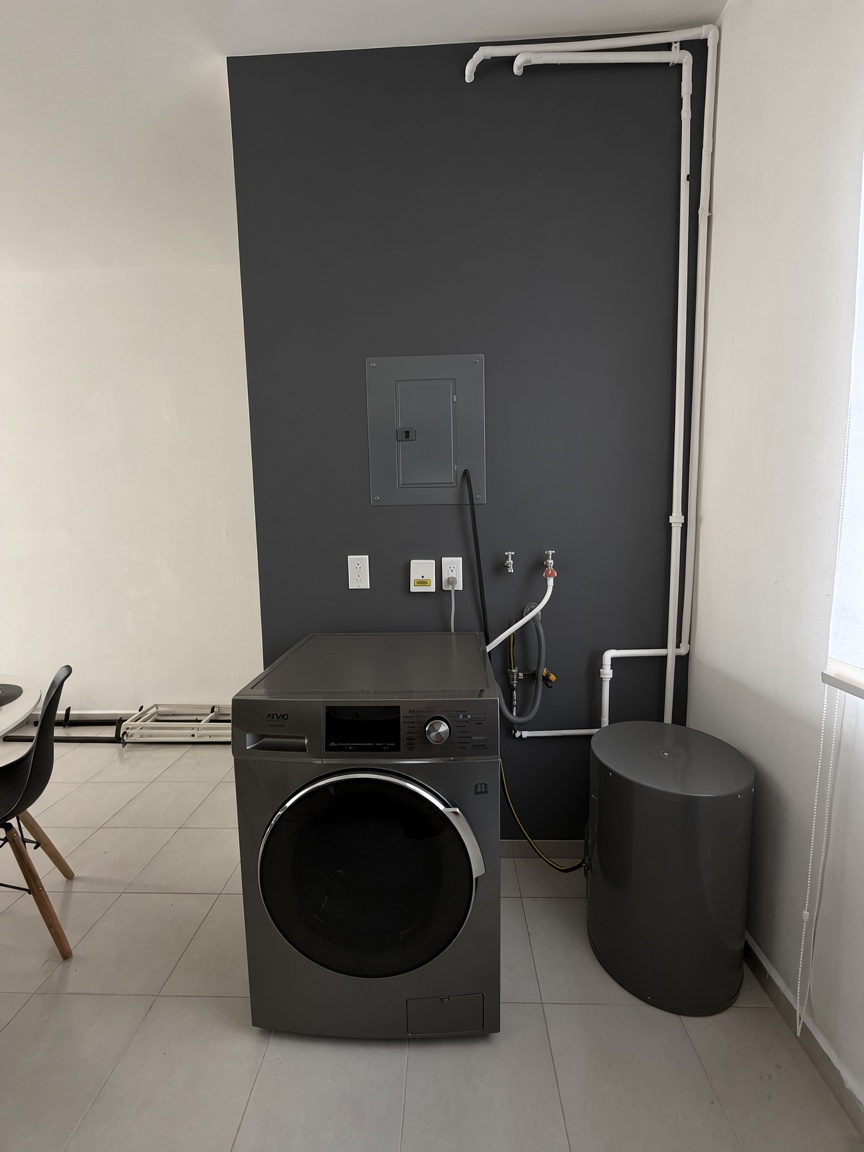
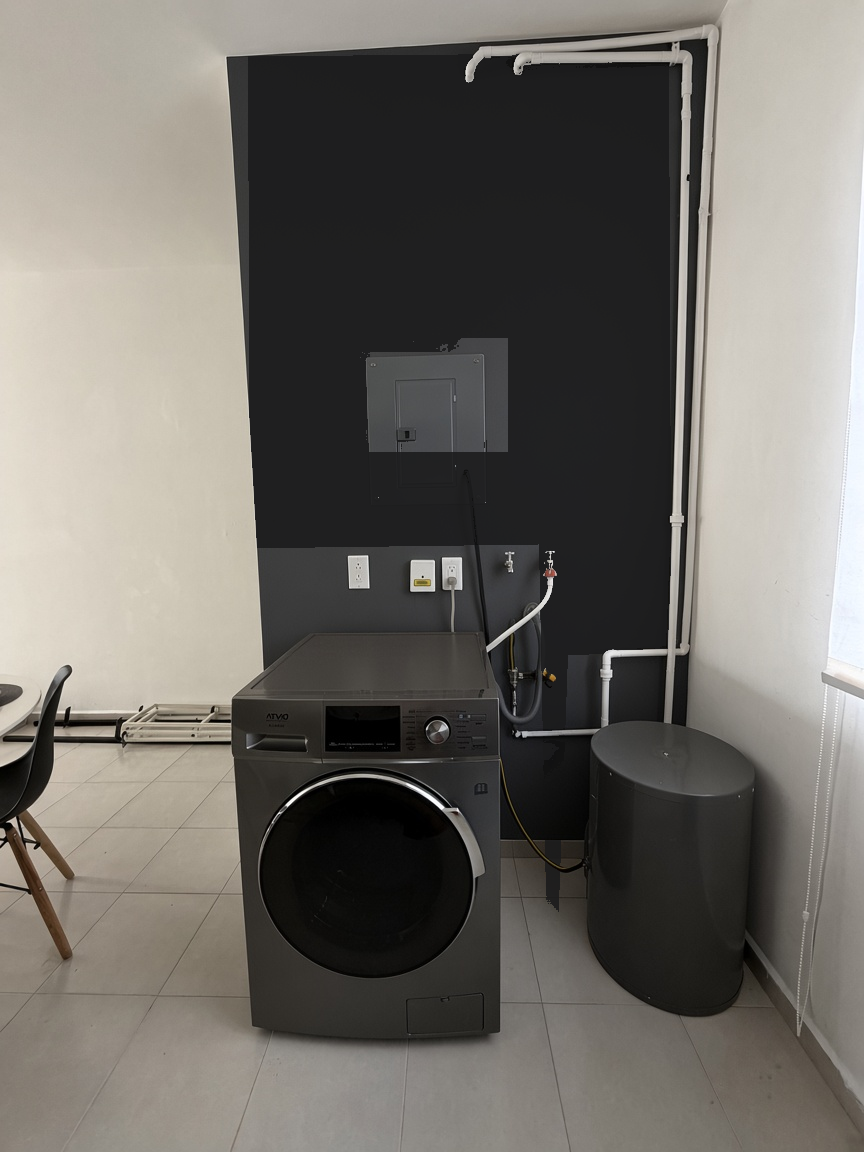
Oscurecer la cara de lavandería a grafito casi negro.
La ref 08 baja de carbón medio a mate casi negro; columna y ventana siguen blancas.

Changed region(s): [[0.2812, 0.0625, 0.7812, 0.5938], [0.625, 0.75, 0.6562, 0.7812]]

diff --git a/docs/cocina-real.md b/docs/cocina-real.md
@@ -2,7 +2,7 @@
 
 Estado: fotografiada. **Sin Billy.** El único módulo se queda en el muro largo de sala. Ver [depa real](depa-real.md).
 
-Fotos: [`01 sin Billy`](../refs/depa-real/cocina/01-sin-billy.jpg) · [`02 con Billy`](../refs/depa-real/cocina/02-con-billy.jpg) · [`03 lavadora`](../refs/depa-real/cocina/03-lavadora-detalle.jpg) · [`04 sin carrito`](../refs/depa-real/cocina/04-sin-carrito-desde-desk.jpg) · [`05 con carrito`](../refs/depa-real/cocina/05-con-carrito-desde-desk.jpg) · [`06 despejada`](../refs/depa-real/cocina/06-lavadora-despejada.jpg) · [`07 nicho madera`](../refs/depa-real/cocina/07-nicho-taller-ref.png) · [`08 cara carbón`](../refs/depa-real/cocina/08-cara-carbon-ref.png)
+Fotos: [`01 sin Billy`](../refs/depa-real/cocina/01-sin-billy.jpg) · [`02 con Billy`](../refs/depa-real/cocina/02-con-billy.jpg) · [`03 lavadora`](../refs/depa-real/cocina/03-lavadora-detalle.jpg) · [`04 sin carrito`](../refs/depa-real/cocina/04-sin-carrito-desde-desk.jpg) · [`05 con carrito`](../refs/depa-real/cocina/05-con-carrito-desde-desk.jpg) · [`06 despejada`](../refs/depa-real/cocina/06-lavadora-despejada.jpg) · [`07 nicho madera`](../refs/depa-real/cocina/07-nicho-taller-ref.png) · [`08 cara grafito`](../refs/depa-real/cocina/08-cara-carbon-ref.png)
 
 Ref de cómo acaba (pinta): [`08`](../refs/depa-real/cocina/08-cara-carbon-ref.png). Solo esa cara. Encima, nada. [`07`](../refs/depa-real/cocina/07-nicho-taller-ref.png) es la alternativa en madera.
 
@@ -12,7 +12,7 @@ Ref de cómo acaba (pinta): [`08`](../refs/depa-real/cocina/08-cara-carbon-ref.p
 - Gabinetes gris oscuro, refri negro, cubierta de madera. Taller, no shaker.
 - Carrito: **borde de cocina + servicio**, no estación de café. La cafetera va a la cubierta. Ver abajo.
 - Techo: **IKEA PS 2026 / HAVSDJUP** (90 cm, papel) centrada sobre la mesa. Ver abajo.
-- Hueco de lavandería **despejado**. Gabinete fuera. No BOAXEL. Cara del fondo: **carbón mate liso**.
+- Hueco de lavandería **despejado**. Gabinete fuera. No BOAXEL. Cara del fondo: **grafito casi negro, mate liso**.
 
 ## Lavadora: atrás. Gabinete: ya fuera
 
@@ -28,7 +28,7 @@ Foto [`06`](../refs/depa-real/cocina/06-lavadora-despejada.jpg): el gabinete ya 
 
 No un mueble. Un **campo**. El hueco se vuelve pozo de servicio.
 
-**Gana: pintar solo la cara del fondo**, vinílica **mate carbón / grafito** (negro de muro, no azabache, **no pizarra**). Columna hacia la mesa: blanca. Muro de la ventana: blanco. Toda la cara, piso a techo, alrededor del panel. Encima, nada. Los PVC se quedan blancos: ese es el dibujo.
+**Gana: pintar solo la cara del fondo**, vinílica **mate grafito casi negro** (el chip más oscuro de la rampa gris, no azul, no azabache, **no pizarra**). Columna hacia la mesa: blanca. Muro de la ventana: blanco. Toda la cara, piso a techo, alrededor del panel. Encima, nada. Los PVC se quedan blancos: ese es el dibujo.
 
 Resanar agujeros **antes**. Cinta en las aristas para no manchar columna ni ventana.
 
@@ -48,7 +48,7 @@ No es difícil. Es **una tarde**, no obra.
 - Vinílica mate se cubre. Pizarra y esmalte no (textura / más manos).
 - Al irte: una mano de **primer cubriente** (sellador para colores oscuros) + **dos de blanco** mate, el del resto del depa.
 - Si puedes, guarda un poco del blanco de la columna o cómpralo igual ahora.
-- Carbón cubre más fácil que negro puro.
+- Grafito cubre más fácil que negro puro. Negro de chip (casi negro) sigue siendo una tarde.
 
 ### Alternativa (madera)
 

diff --git a/AGENTS.md b/AGENTS.md
@@ -12,7 +12,7 @@ Este hilo y estos docs aterrizan **refs → concepto → aplicación en el depa 
 - Zonas principales **cerradas**. No reabrir living, cocina, trabajo ni recámara salvo corrección explícita.
 - Baño y terraza: todavía no.
 - Al recomendar para el depa real, partir de `docs/depa-real.md` (presupuesto, tamaño, plazo). Las refs son el norte visual; este depa manda en lo que se compra y lo que se muestra.
-- Fase 3: living/trabajo + recámara + cocina. Billy en muro largo. Cocina: lavadora recesada, gabinete **ya fuera**, sin BOAXEL. Cara del fondo **carbón mate liso** (columna y ventana blancas). Carrito = borde. Lámpara: HAVSDJUP 90 cm. Visitas = archivo.
+- Fase 3: living/trabajo + recámara + cocina. Billy en muro largo. Cocina: lavadora recesada, gabinete **ya fuera**, sin BOAXEL. Cara del fondo **grafito casi negro mate** (columna y ventana blancas). Carrito = borde. Lámpara: HAVSDJUP 90 cm. Visitas = archivo.
 
 ## Estado
 

diff --git a/docs/depa-real.md b/docs/depa-real.md
@@ -136,7 +136,7 @@ Prohibido en este plazo: alfombra persa, sillas icónicas, gabinetes de cocina, 
 
 ## Cocina
 
-Ya hay fotos. Ver [cocina real](cocina-real.md). Mesa redonda ya está. **Sin Billy.** Carrito: borde de cocina (loza arriba, perro abajo). Cafetera en la cubierta. Lámpara: HAVSDJUP 90 cm, centrada sobre la mesa. Lavadora recesada, gabinete **ya fuera**; cara del fondo carbón mate, no BOAXEL.
+Ya hay fotos. Ver [cocina real](cocina-real.md). Mesa redonda ya está. **Sin Billy.** Carrito: borde de cocina (loza arriba, perro abajo). Cafetera en la cubierta. Lámpara: HAVSDJUP 90 cm, centrada sobre la mesa. Lavadora recesada, gabinete **ya fuera**; cara del fondo grafito casi negro mate, no BOAXEL.
 
 Recámara principal: [recámara real](recamara-real.md). Visitas: [archivo](zonas/visitas.md).
 

diff --git a/docs/ESTILO.md b/docs/ESTILO.md
@@ -28,7 +28,7 @@ Palabras: **mínimo · cómodo · editorial · móvil · una rareza**.
 |---|---|---|
 | [Living / sala](zonas/living.md) | Cerrada | Teddy bajo + escena de piezas |
 | [Cocina / comedor](zonas/cocina.md) | Cerrada | Mesa redonda + colgante |
-| [Cocina real](cocina-real.md) | Fase 3 | Mesa redonda; cara lavandería carbón |
+| [Cocina real](cocina-real.md) | Fase 3 | Mesa redonda; cara lavandería grafito |
 | [Zona de trabajo](zonas/trabajo.md) | Cerrada (layout decidido) | Escritorio isla detrás del teddy |
 | [Recámara](zonas/recamara.md) | Cerrada | Plataforma baja + Akari |
 | [Recámara real](recamara-real.md) | Fase 3 | Luz + colcha piedra/carbón |
